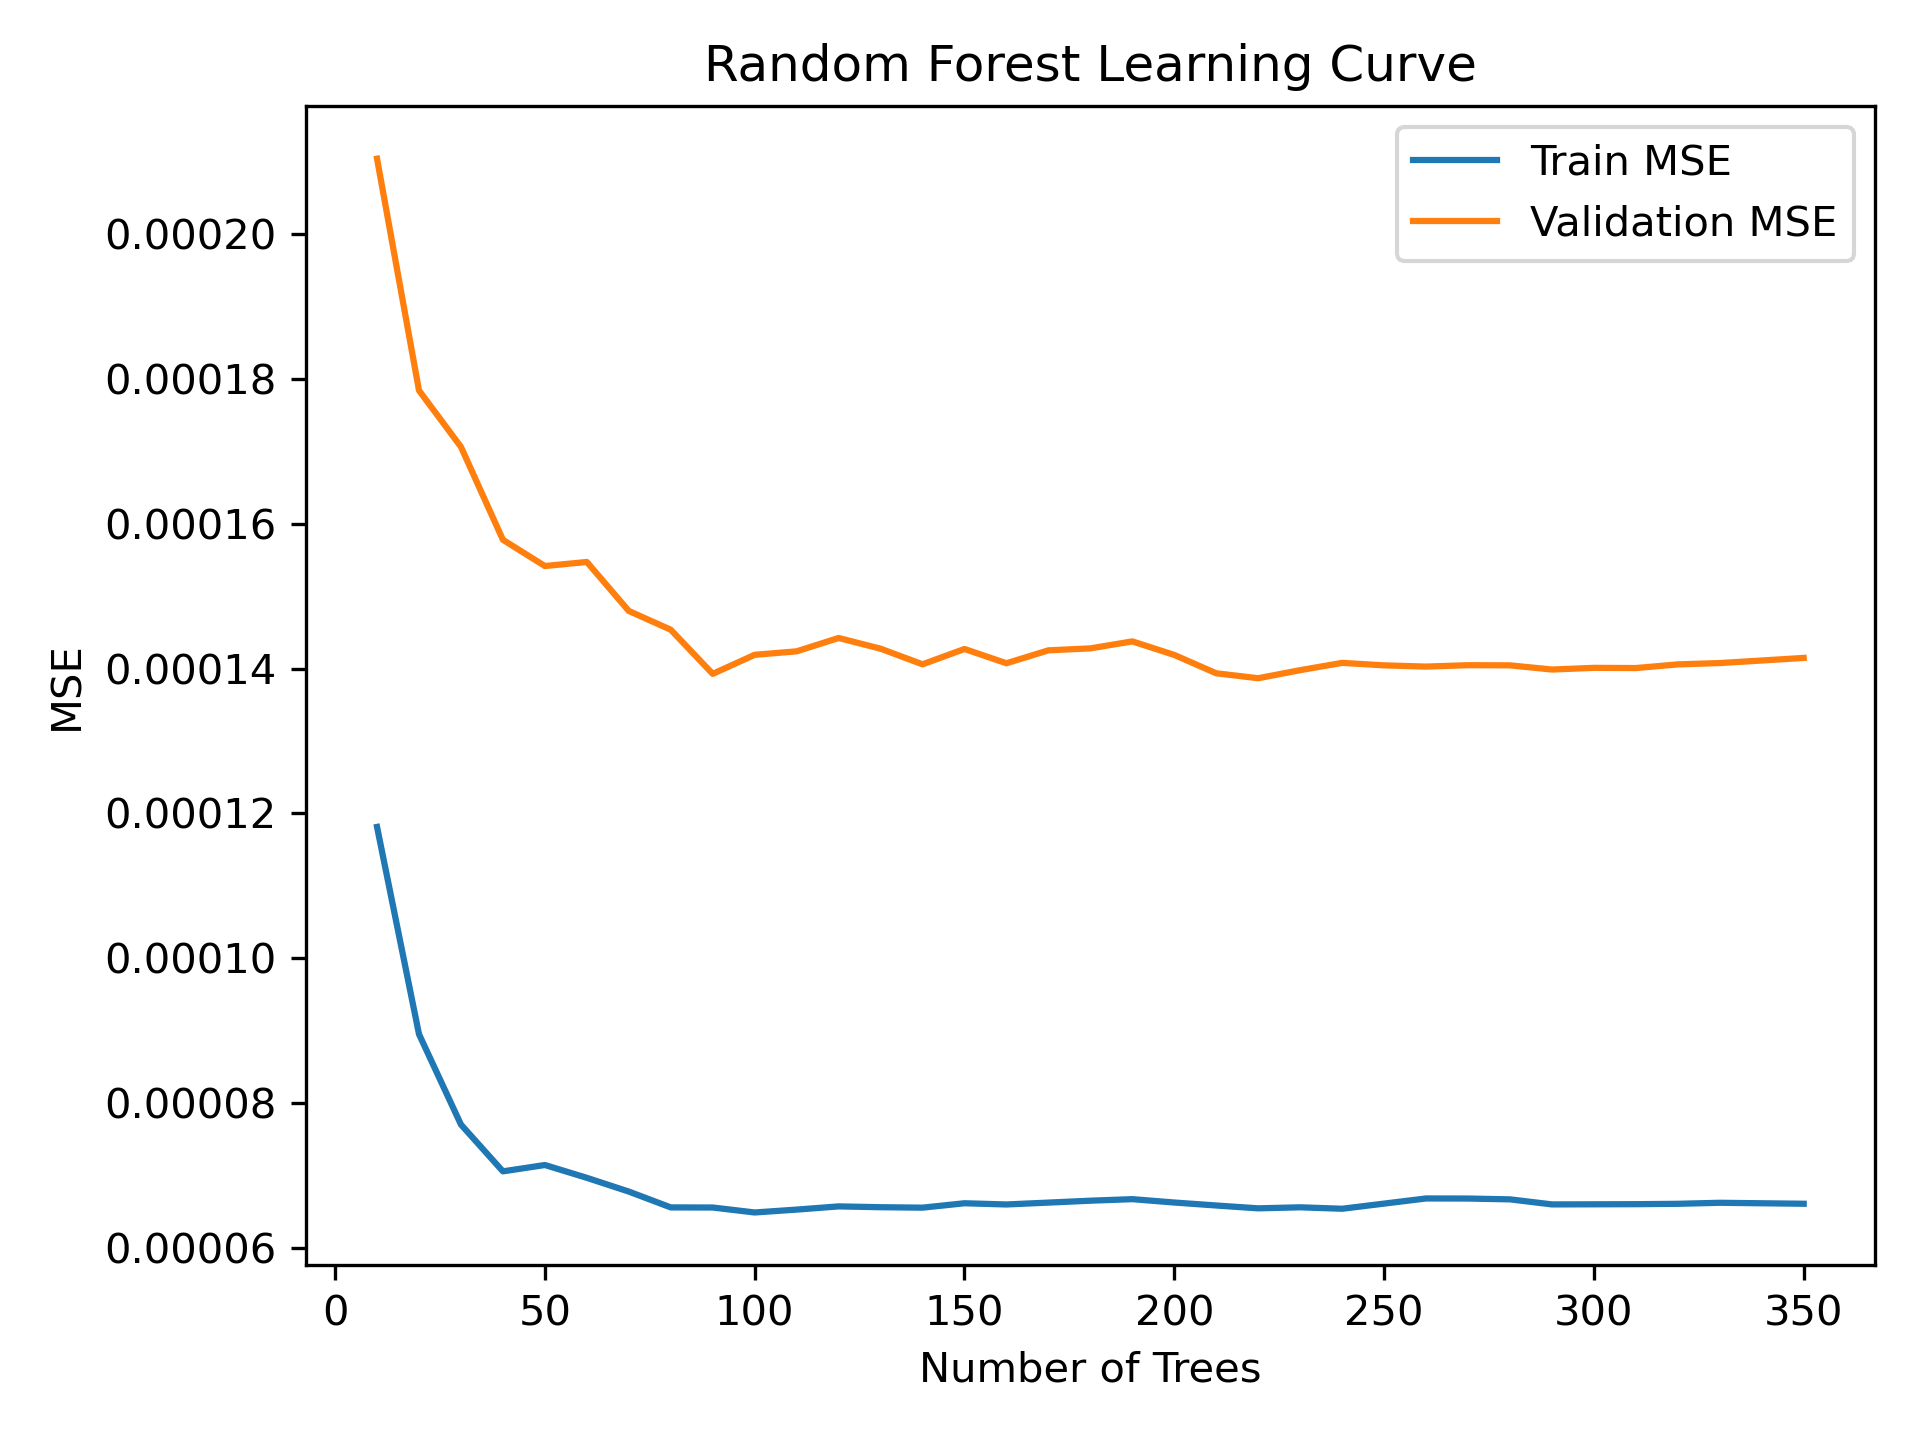
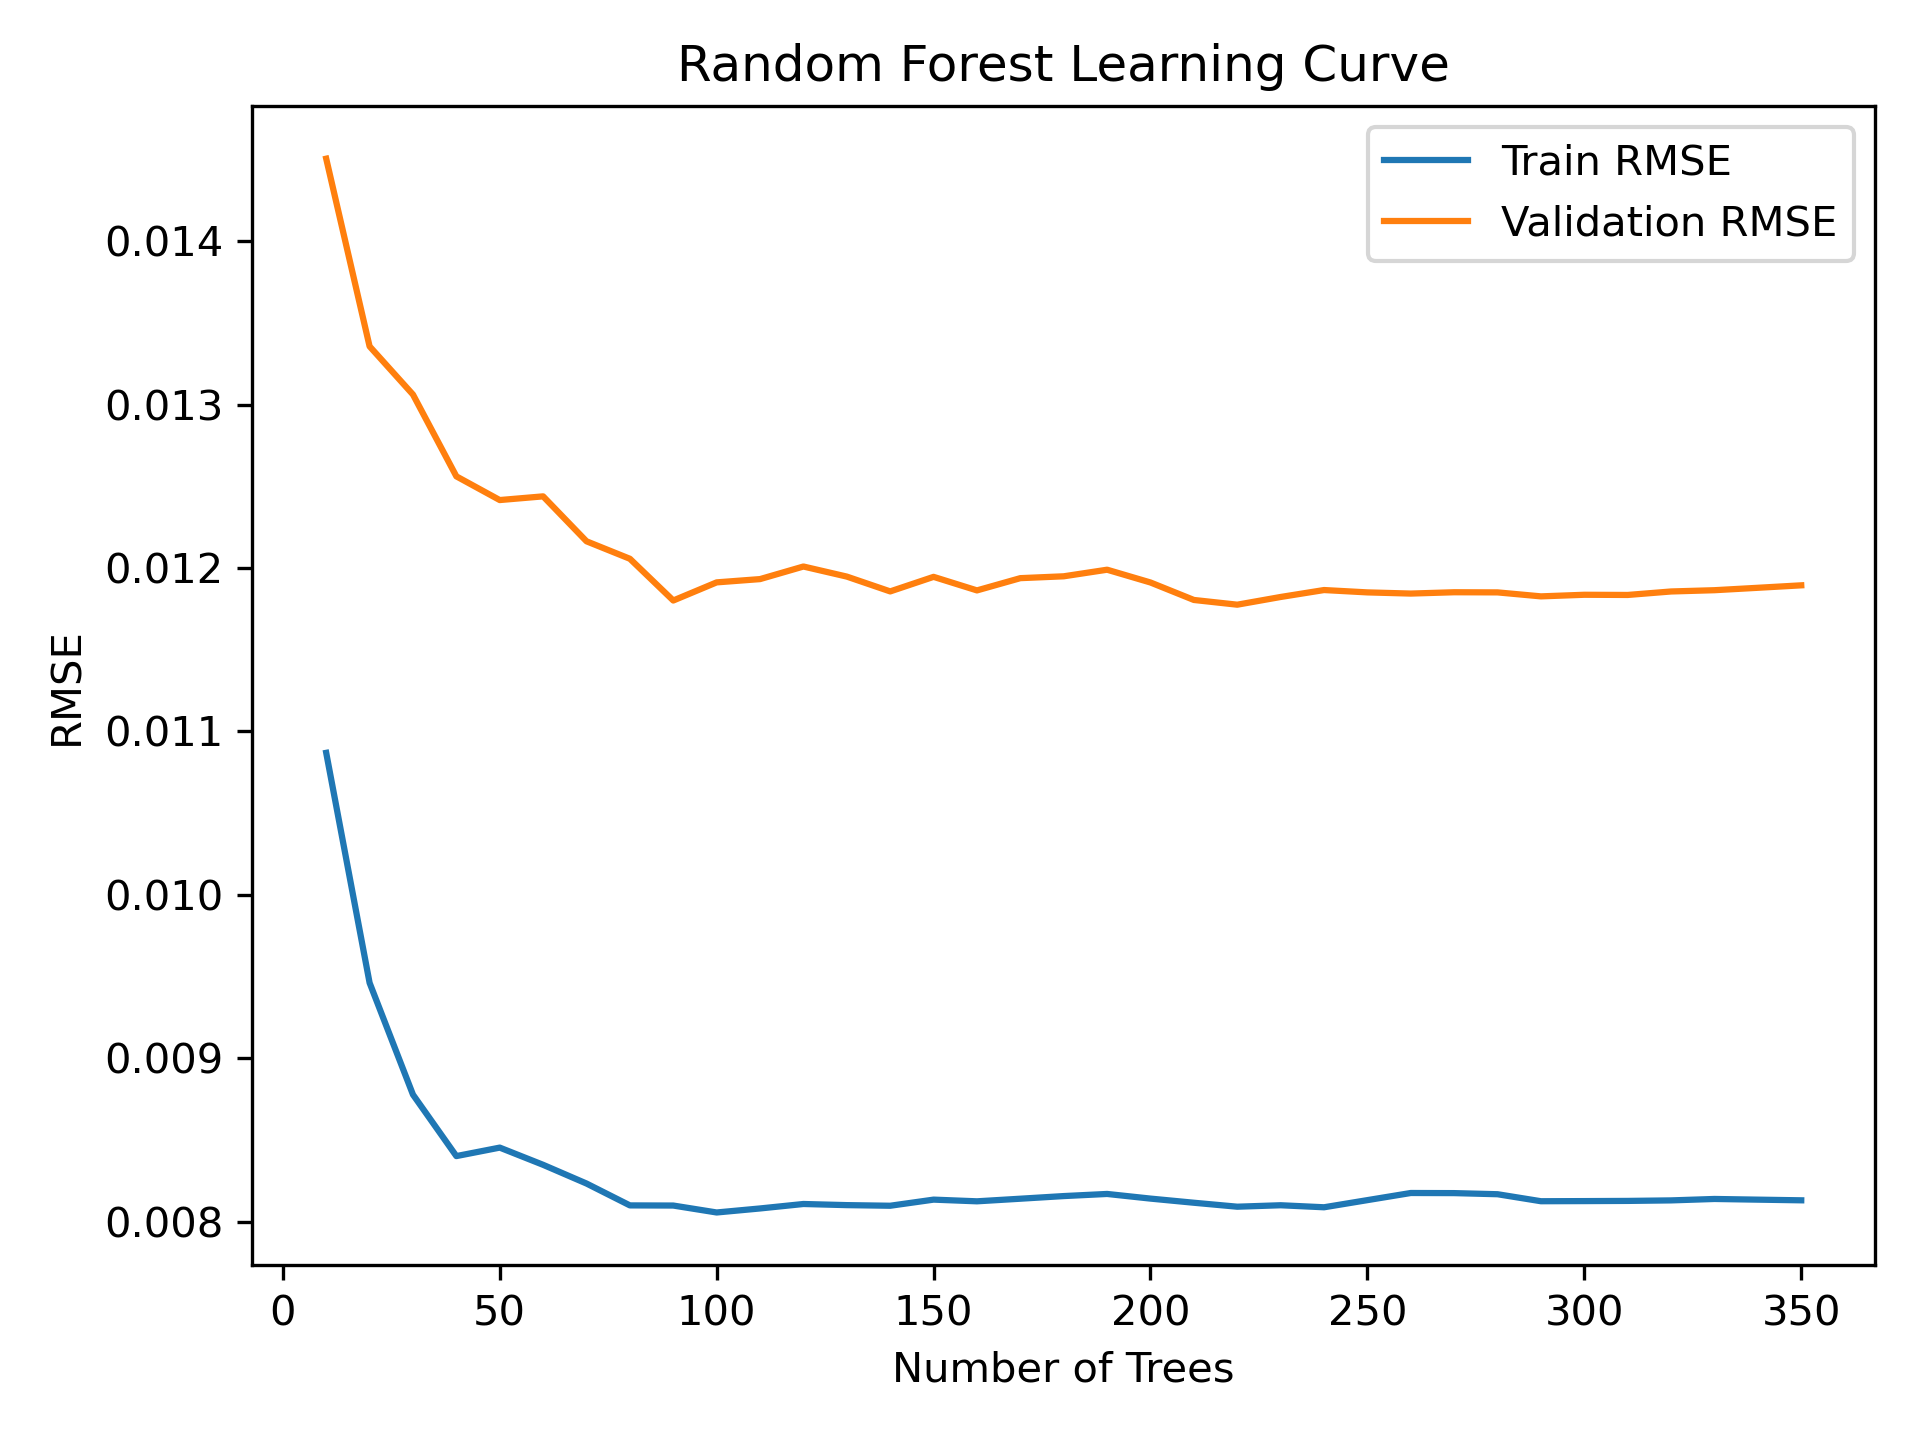
new results

diff --git a/PML_Adh_hyper_RF.py b/PML_Adh_hyper_RF.py
@@ -83,10 +83,13 @@ while rf.n_estimators <= max_trees:
 
 # ─────────────────────────── plot & save curve ─────────────────────────────
 plt.figure()
-plt.plot(n_seq, train_mse, label="Train MSE")
-plt.plot(n_seq, val_mse,   label="Validation MSE")
-plt.xlabel("Number of Trees");  plt.ylabel("MSE")
-plt.title("Random Forest Learning Curve");  plt.legend();  plt.tight_layout()
+plt.plot(n_seq, np.sqrt(train_mse), label="Train RMSE")
+plt.plot(n_seq, np.sqrt(val_mse),   label="Validation RMSE")
+plt.xlabel("Number of Trees")
+plt.ylabel("RMSE")
+plt.title("Random Forest Learning Curve")
+plt.legend()
+plt.tight_layout()
 
 curve_path = os.path.join(
     save_dir_PARPML_6inputs, "random_forest_learning_curve.png")
